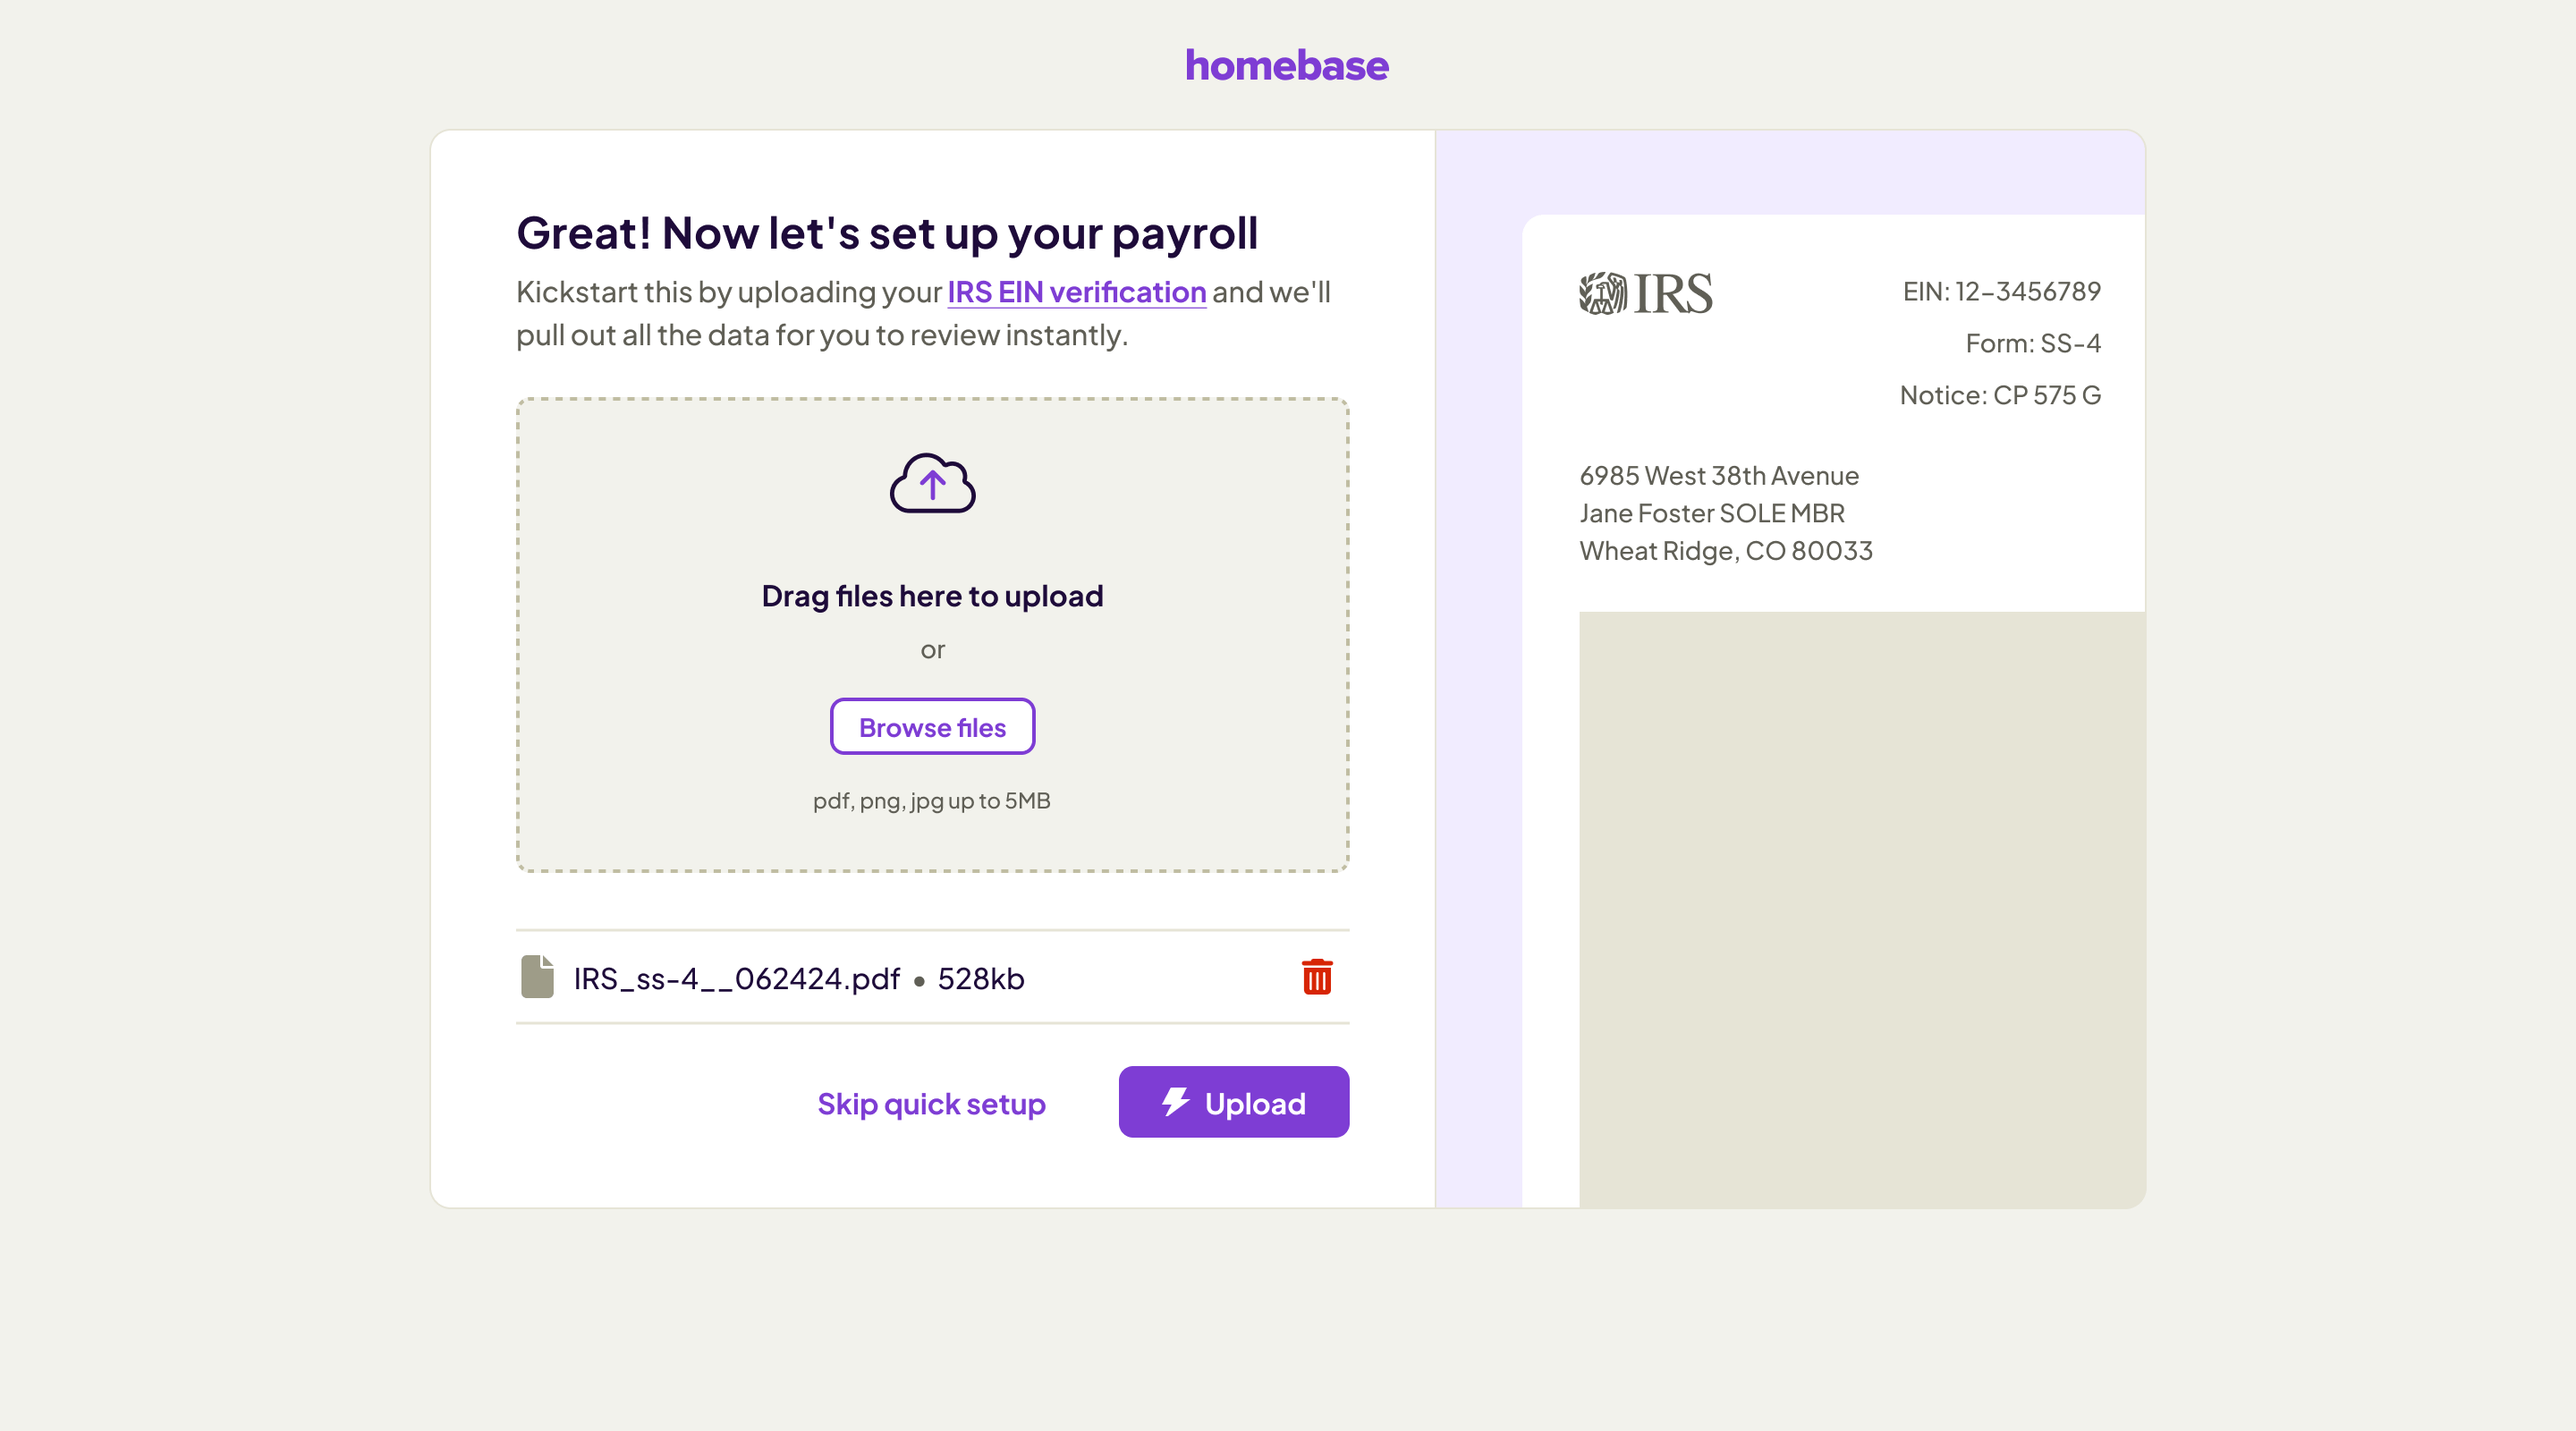
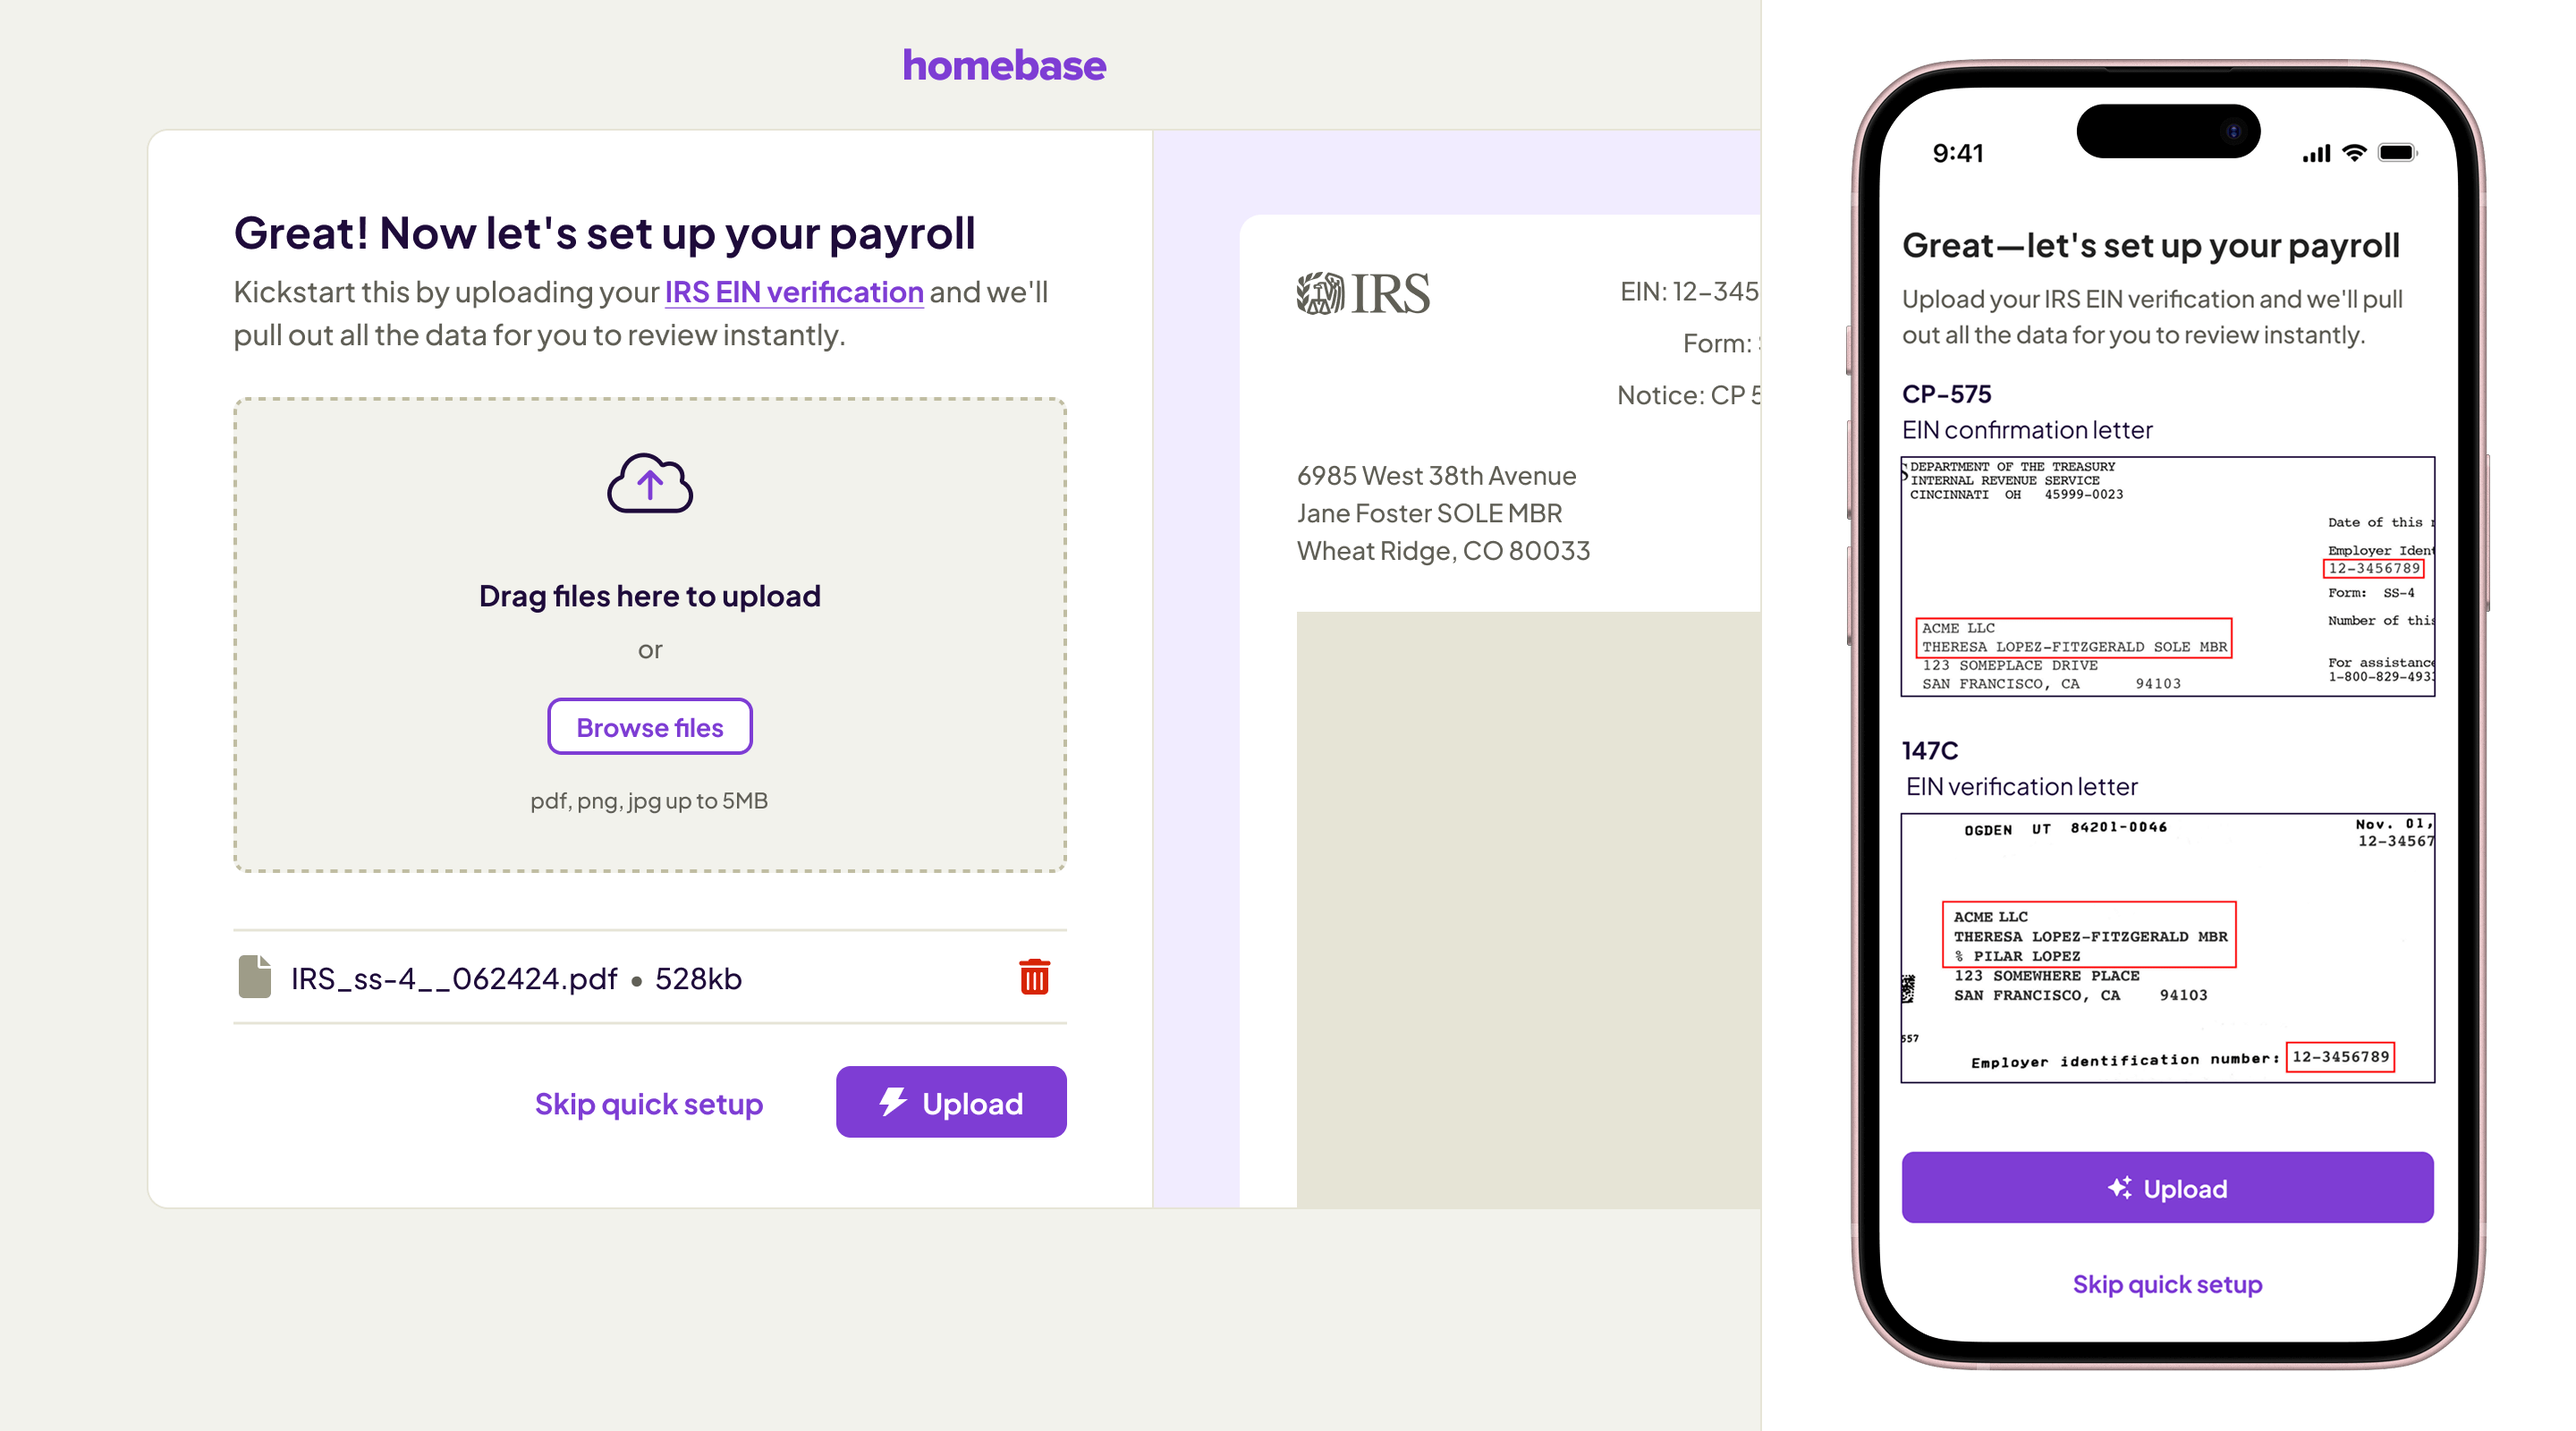
Update portfolio images and clean up content

diff --git a/index.html b/index.html
@@ -54,7 +54,7 @@
           </p>
         </a>
 
-        <a href="https://mychorelist.us/?ref=hire.jefff.co" target="_blank" class="promo cf mar-bot--64">
+        <!-- <a href="https://mychorelist.us/?ref=hire.jefff.co" target="_blank" class="promo cf mar-bot--64">
           <img src="images/mychorelist--logo.png" alt="My Chorelist logo" />
           <h3 class="heading body ibm">
             My Chorelist
@@ -62,7 +62,7 @@
           <p class="body">
             A simple weekly chore list for your kid. 100% private.
           </p>
-        </a>
+        </a> -->
 
         <h1 class="heading xl ibm mar-bot--32">
           I’m Jeff, a product, growth, and business designer.
@@ -79,7 +79,7 @@
         <a href="homebase.html" class="work-item">
           <h2>Staff Product Designer, Homebase</h2>
           <p>Increased new signups by 15%, increased activation by 8%, and increased paid upgrades by 4%. <strong>New:</strong> Increased payroll runs ~700% with AI</p>
-          <img src="images/new-work/homebase--signup.png" />
+          <img src="images/homebase/doc-uploader.png" />
         </a>
         <!--/ work -->
         
@@ -128,40 +128,6 @@
       <div class="works" id="links">
         <h3 class="heading mar-bot--40">Figma links, prototypes, side projects, etc.</h3>
         <!-- <p class="mar-bot--40">Figma prototypes, side-projects, writings.</p> -->
-        
-        <div class="grid grid--2 grid-gap--32 mar-bot--32">
-          <!-- work -->
-          <a href="https://www.figma.com/proto/9cJeSKAa2C8Cfjwe3maSNp/Payroll-EOY-2024?page-id=330%3A11560&node-id=759-18746&node-type=canvas&viewport=137%2C260%2C0.04&t=tbT9zlrcFOEPBMZE-8&scaling=scale-down&content-scaling=fixed&starting-point-node-id=759%3A18746&show-proto-sidebar=1&hide-ui=1" target="_blank" class="work-item work-item--grid">
-            <h2>Homebase: Payroll 2024</h2>
-            <p>Multi-touch campaign to get customers to switch to our payroll. I led the messaging, UX, and design across myriad touchpoints.</p>
-            <img src="images/new-work/image--hb--payroll.png" />
-          </a>
-          <!--/ work -->
-          <!-- work -->
-          <a href="https://www.figma.com/proto/AhHR3vF8Atrv39PtQ80Vel/GROW-343%3A-Mobile-Time-%26-Pay?page-id=209%3A9052&node-id=209-10059&node-type=canvas&viewport=584%2C636%2C0.08&t=EjnIbUKKICiVY3Rc-8&scaling=scale-down&content-scaling=fixed&starting-point-node-id=209%3A10059&hide-ui=1" target="_blank" class="work-item work-item--grid">
-            <h2>Homebase: Mobile Quick Start Guide</h2>
-            <p>Giving new mobile customers a step-by-step guide to value. I led the content, UX, and design. This is the first of many iterative tests.</p>
-            <img src="images/new-work/image--hb--qsg.png" />
-          </a>
-          <!--/ work -->
-        </div>
-
-        <div class="grid grid--2 grid-gap--32 mar-bot--32">
-          <!-- work -->
-          <a href="https://www.figma.com/proto/VB4GgGrHLxoVJ7s8zSF5Rz/Case-Studies?page-id=18%3A4357&node-id=18-4358&node-type=canvas&viewport=114%2C373%2C0.09&t=KfzKG5Oy6fIw9F8C-8&scaling=min-zoom&content-scaling=fixed&hide-ui=1" target="_blank" class="work-item work-item--grid">
-            <h2>Reforge</h2>
-            <p>Take home test for job interview</p>
-            <img src="images/cs--reforge.png" />
-          </a>
-          <!--/ work -->
-          <!-- work -->
-          <a href="https://www.figma.com/proto/VB4GgGrHLxoVJ7s8zSF5Rz/Case-Studies?page-id=3%3A7965&node-id=3-11844&node-type=canvas&viewport=428%2C413%2C0.03&t=O3vnXO5V6mhQw4So-8&scaling=min-zoom&content-scaling=fixed&starting-point-node-id=3%3A11844&show-proto-sidebar=1&hide-ui=1" target="_blank" class="work-item work-item--grid">
-            <h2>Thriveworks</h2>
-            <p>Case study for Support center work</p>
-            <img src="images/cs--thriveworks.png" />
-          </a>
-          <!--/ work -->
-        </div>
 
         <div class="grid grid--2 grid-gap--32 mar-bot--32">
           <!-- work -->
